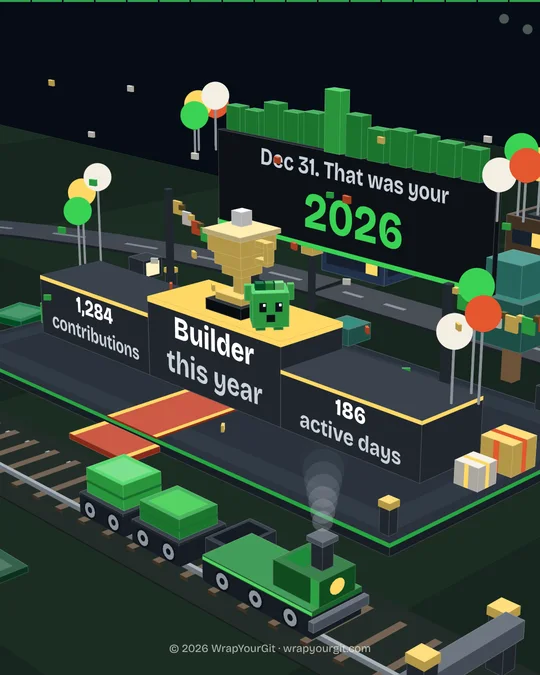
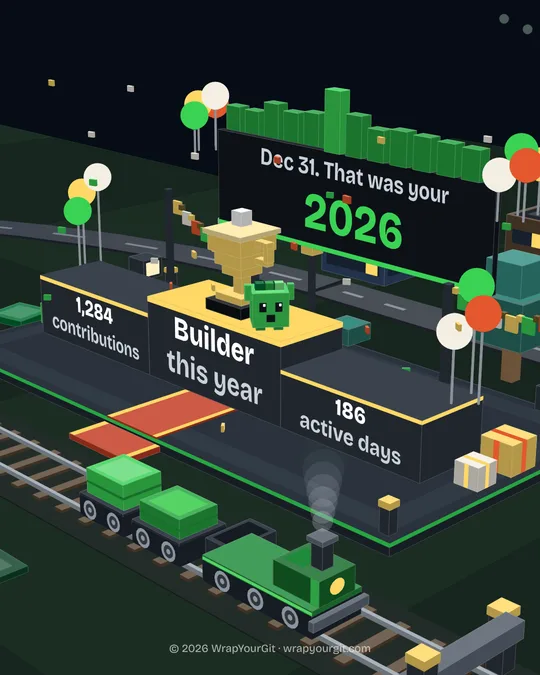
fix(web): render the landing's story frames without the progress bar

diff --git a/CHANGELOG.md b/CHANGELOG.md
@@ -4,6 +4,10 @@ All notable changes to WrapYourGit are recorded here. The format follows [Keep a
 
 ## [Unreleased]
 
+### Fixed
+
+- Exported slides (PNG, ZIP, PDF) and the landing page's frames no longer carry the story's progress bar along the top, which on a single frame read as a loading line; the player and the MP4 keep it, and the copyright line stays ([#197](https://github.com/habibiahmada/wrapyourgit/issues/197)).
+
 ## [1.0.0] - 2026-11-19
 
 The first release: the 2026 edition, live at [wrapyourgit.com](https://wrapyourgit.com).
